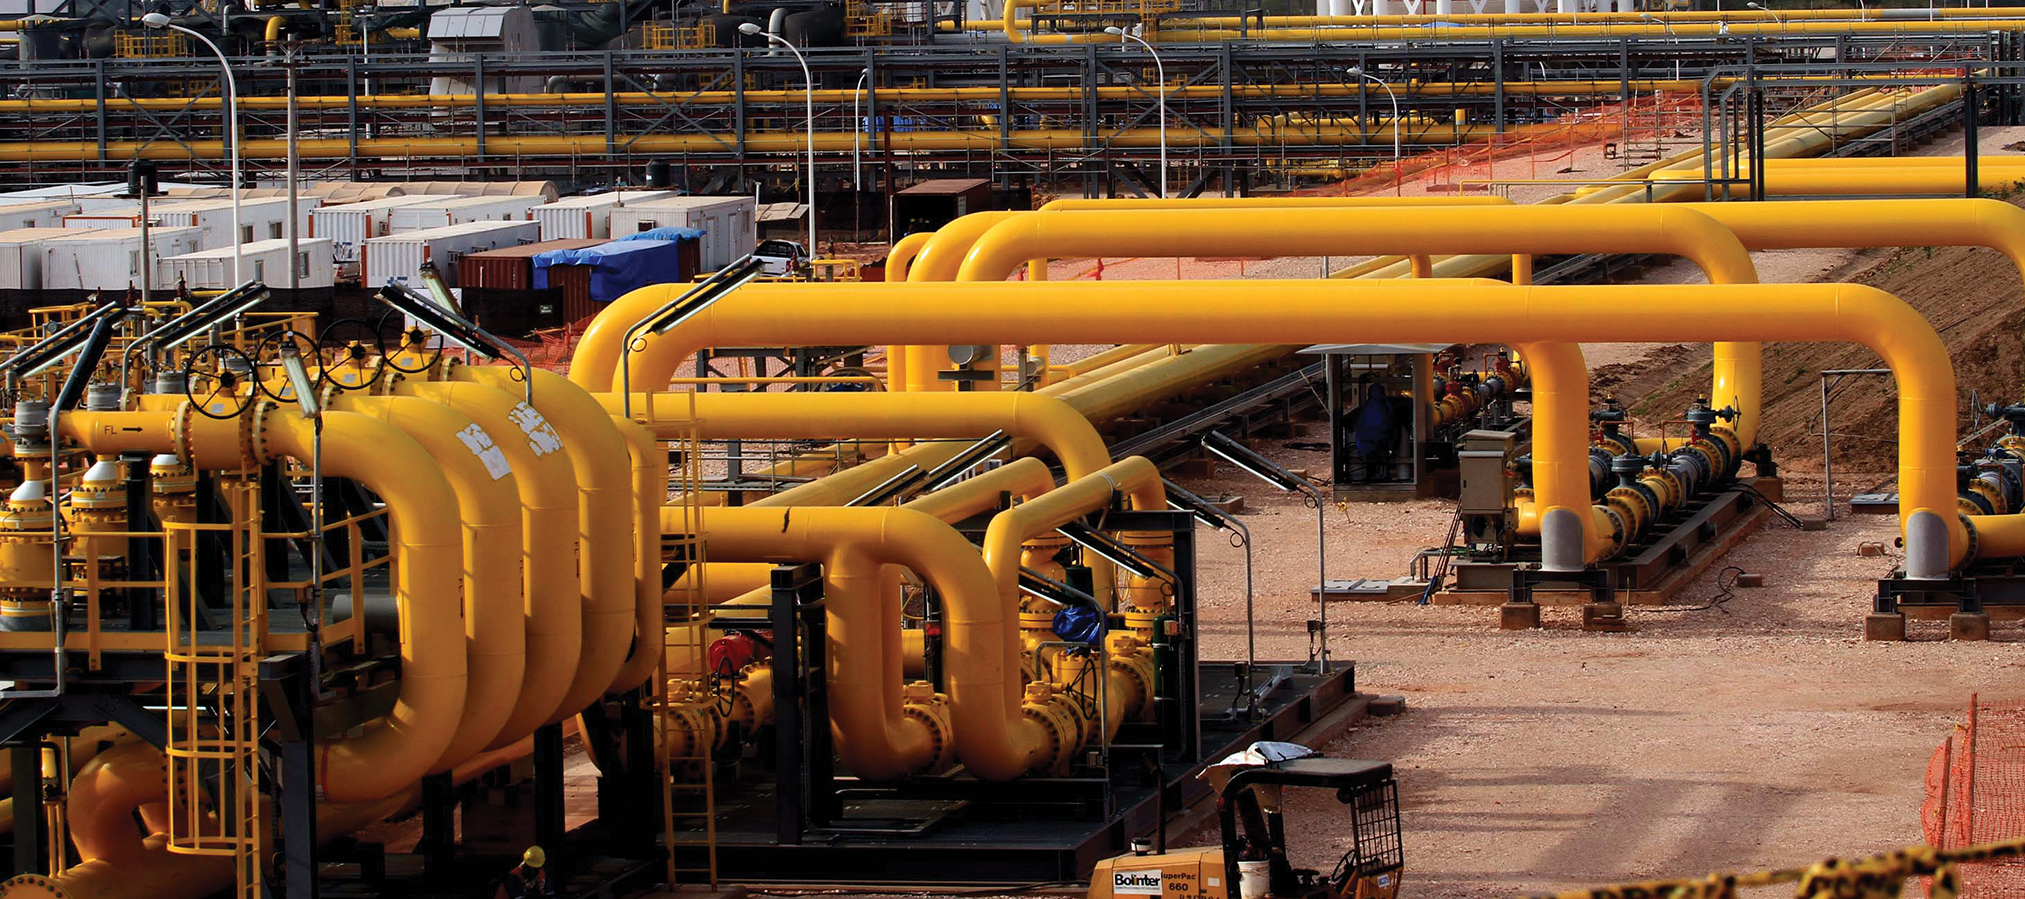
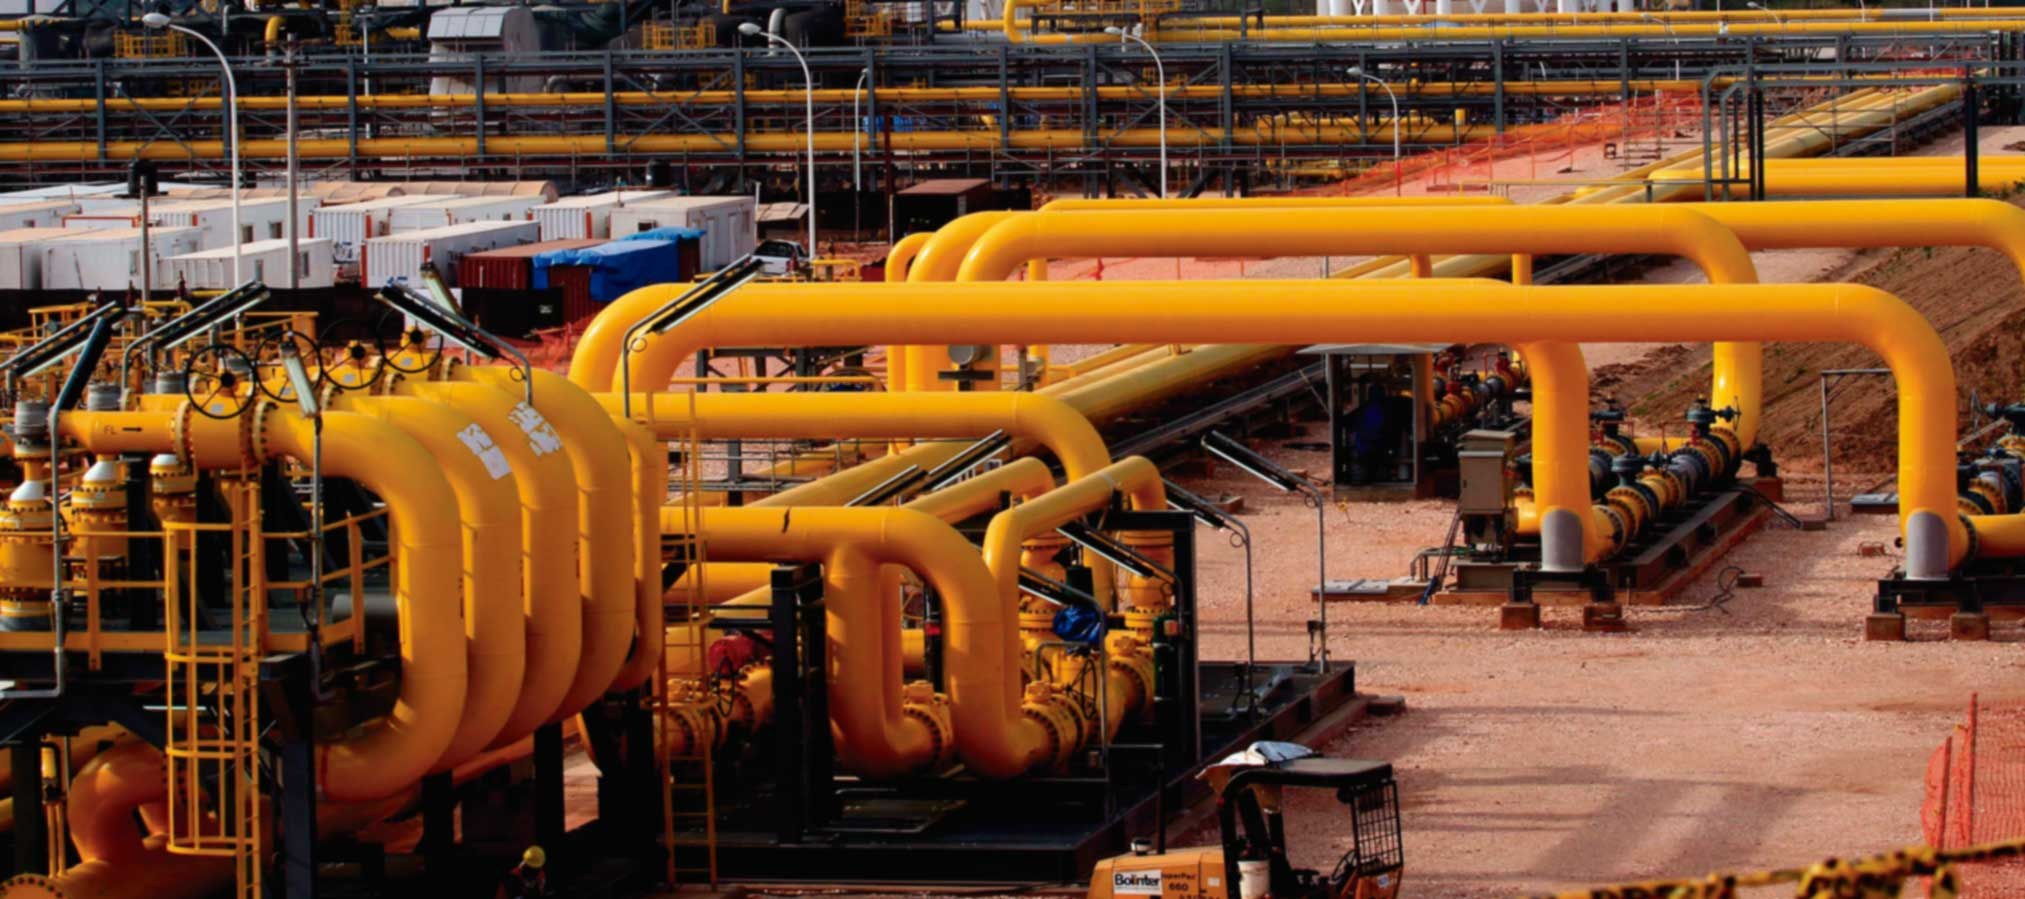
imagenes optimizadas

diff --git a/clientes.html b/clientes.html
@@ -44,9 +44,9 @@
             <li class="active"><a href="index.html">Inicio</a></li>
             <li><a href="nosotros.html">| Nosotros</a></li>
             <li><a href="clientes.html">| Clientes</a></li>
-            <li><a href="#productos">| Productos</a></li>
-            <li><a href="#servicios">| Servicios</a></li>
-            <li><a href="#contactos">| Contactos</a></li>
+            <li><a href="index.html">| Productos</a></li>
+            <li><a href="index.html">| Servicios</a></li>
+            <li><a href="index.html">| Contactos</a></li>
           </ul>
         </div>
       </nav>
@@ -66,8 +66,8 @@
           <h5 class="ins_r text-center"></h5>
         </div>
         <div class="col-md-2 col-sm-6 col-xs-6 wow fadeInLeft" data-wow-delay=".5s">
-          <img src="images/page-1_img1.png" alt="" class="center-block" />
-          <h5 class="ins_r text-center">NOSOTROS</h5>
+          <img src="images/page-1_img2.png" alt="" class="center-block" />
+          <h5 class="ins_r text-center">CLIENTES</h5>
         </div>
         <div class="col-md-2 col-sm-6 col-xs-6 wow fadeInLeft" data-wow-delay=".3s">
           <img src="" alt="" class="center-block" />
@@ -88,13 +88,8 @@
   <ul class="wow fadeInLeft" data-wow-duration="2s">
     <li class="navbarbarra col-md-12 col-sm-12 col-xs-12">
     <div>
-      <p class="text-justify">
-Somos una compañía líder en el campo de instrumentación de plantas de Hidrocarburos y servicios de perforación, con más de 43 años de experiencia. Tenemos
-la representación de las más sólidas marcas del rubro, con técnicos y profesionales especializados en la instrumentación de equipos de precisión para la medición
-y control de flujo, supervisión de stock en tanques, control automatizado de válvulas, integración por software, calibración de contómetros, fabricación de tanques
-de aditivación y patrones volumétricos, entre otros servicios que su empresa necesita.Contamos con el servicio de alquiler de herramientas para perforación y
-representamos a una de las compañías más sólidas en el servicio de coring. Nuestros servicios incluyen trabajos electrónicos, eléctricos y metalmecánicos que
-garantizan el perfecto funcionamiento de los equipos instalados, así como del apoyo técnico correspondiente, comprometiéndonos con su completa satisfacción.
+      <p class="text-center">
+Nuestros clientes se encuentran entre las empresas lideres en el mercado
       </p>
     </div>
     </li>
@@ -102,11 +97,6 @@ garantizan el perfecto funcionamiento de los equipos instalados, así como del a
 </div>
 </section>
 
-<section class="well well2nosotros parallax text-center" data-url="images/nosotros.png" data-mobile="true" data-speed="0.6">
-<div class="container">
-
-</div>
-</section>
 
 <section class="well wellnosline bg-primary">
   <div class="container">
@@ -115,34 +105,23 @@ garantizan el perfecto funcionamiento de los equipos instalados, así como del a
   </div>
 </section>
 
-
-
-<section class="well well5">
+<section class="well parallax text-center"  data-mobile="true" data-speed="0.6">
 <div class="container">
-  <ul class="wow fadeInLeft" data-wow-duration="2s">
-    <li class="col-md-6 col-sm-6 col-xs-12 border-right">
-    <div>
-      <h6>VISIÓN</h6>
-      <p>
- “CONVERTIRNOS EN EL PROVEEDOR PREFERIDO POR NUESTROS
-CLIENTES A NIVEL NACIONAL EN SERVICIOS Y PRODUCTOS ESPECIALIZADOS
-EN LA INDUSTRIA DE GAS, PETRÓLEO, ENERGÍA Y MINERÍA”.
-      </p>
-    </div>
-    </li>
-    <li class="col-md-6 col-sm-6 col-xs-12">
-    <div>
-      <h6>MISIÓN</h6>
-      <p>
-“BRINDARLE A NUESTROS CLIENTES SERVICIOS, EQUIPAMIENTO
-MECÁNICO E INSTRUMENTACIÓN DE PRIMERA CALIDAD EN LA
-INDUSTRIA DE GAS, PETRÓLEO, ENERGÍA Y MINERÍA, PROPORCIONÁNDOLES
-LA MEJOR SOLUCIÓN TÉCNICA”.
-      </p>
-    </div>
-    </li>
-  </ul>
+<img src="images/clientes.png"/>
 </div>
+</section>
+
+
+
+
+
+
+
+<section class="well wellnosline bg-primary">
+  <div class="container">
+    <div class="mailform-sub">
+    </div>
+  </div>
 </section>
 
 

diff --git a/index.html b/index.html
@@ -42,11 +42,11 @@
           </div>
           <ul class="navbar-nav sf-menu navbar-right" data-type="navbar">
             <li class="active"><a href="index.html">Inicio</a></li>
-            <li><a href="index-1.html">| Nosotros</a></li>
-            <li><a href="#">| Clientes</a></li>
-            <li><a href="#">| Productos</a></li>
-            <li><a href="#">| Servicios</a></li>
-            <li><a href="#">| Contactos</a></li>
+            <li><a href="nosotros.html">| Nosotros</a></li>
+            <li><a href="clientes.html">| Clientes</a></li>
+            <li><a href="#productos">| Productos</a></li>
+            <li><a href="#servicios">| Servicios</a></li>
+            <li><a href="#contactos">| Contactos</a></li>
           </ul>
         </div>
       </nav>
@@ -168,7 +168,7 @@ blanditu
 </div>
 </section>
 
-<section class="well well4 parallax text-center" data-url="images/parallax2.png" data-mobile="true" data-speed="0.6">
+<section class="well well4 parallax text-center" id="productos" data-url="images/parallax2.png" data-mobile="true" data-speed="0.6">
 <div class="container">
 <h2>
 PRODUCTOS
@@ -181,7 +181,7 @@ por lo que se adaptan de manera optima a la solución que el cliente necesita.
 </div>
 </section>
 
-<section class="well well4 parallax text-center" data-url="images/parallax3.png" data-mobile="true" data-speed="0.6">
+<section class="well well4 parallax text-center" id="servicios" data-url="images/parallax3.png" data-mobile="true" data-speed="0.6">
 <div class="container">
 <h2>
 SERVICIOS
@@ -224,7 +224,7 @@ LA MEJOR SOLUCIÓN TÉCNICA”.
 </div>
 </section>
 </div>
-<section class="well well6 bg-primary">
+<section class="well well6 bg-primary" id="contactos">
   <div class="container">
     <div class="mailform-sub">
       <p>Contáctanos</p>

diff --git a/nosotros.html b/nosotros.html
@@ -42,11 +42,11 @@
           </div>
           <ul class=" navbar-nav sf-menu navbar-right" data-type="navbar">
             <li class="active"><a href="index.html">Inicio</a></li>
-            <li><a href="nosotros.html">| Nosotros</a></li>
+            <li><a href="index-1.html">| Nosotros</a></li>
             <li><a href="clientes.html">| Clientes</a></li>
-            <li><a href="#productos">| Productos</a></li>
-            <li><a href="#servicios">| Servicios</a></li>
-            <li><a href="#contactos">| Contactos</a></li>
+            <li><a href="index.html">| Productos</a></li>
+            <li><a href="index.html">| Servicios</a></li>
+            <li><a href="index.html">| Contactos</a></li>
           </ul>
         </div>
       </nav>
